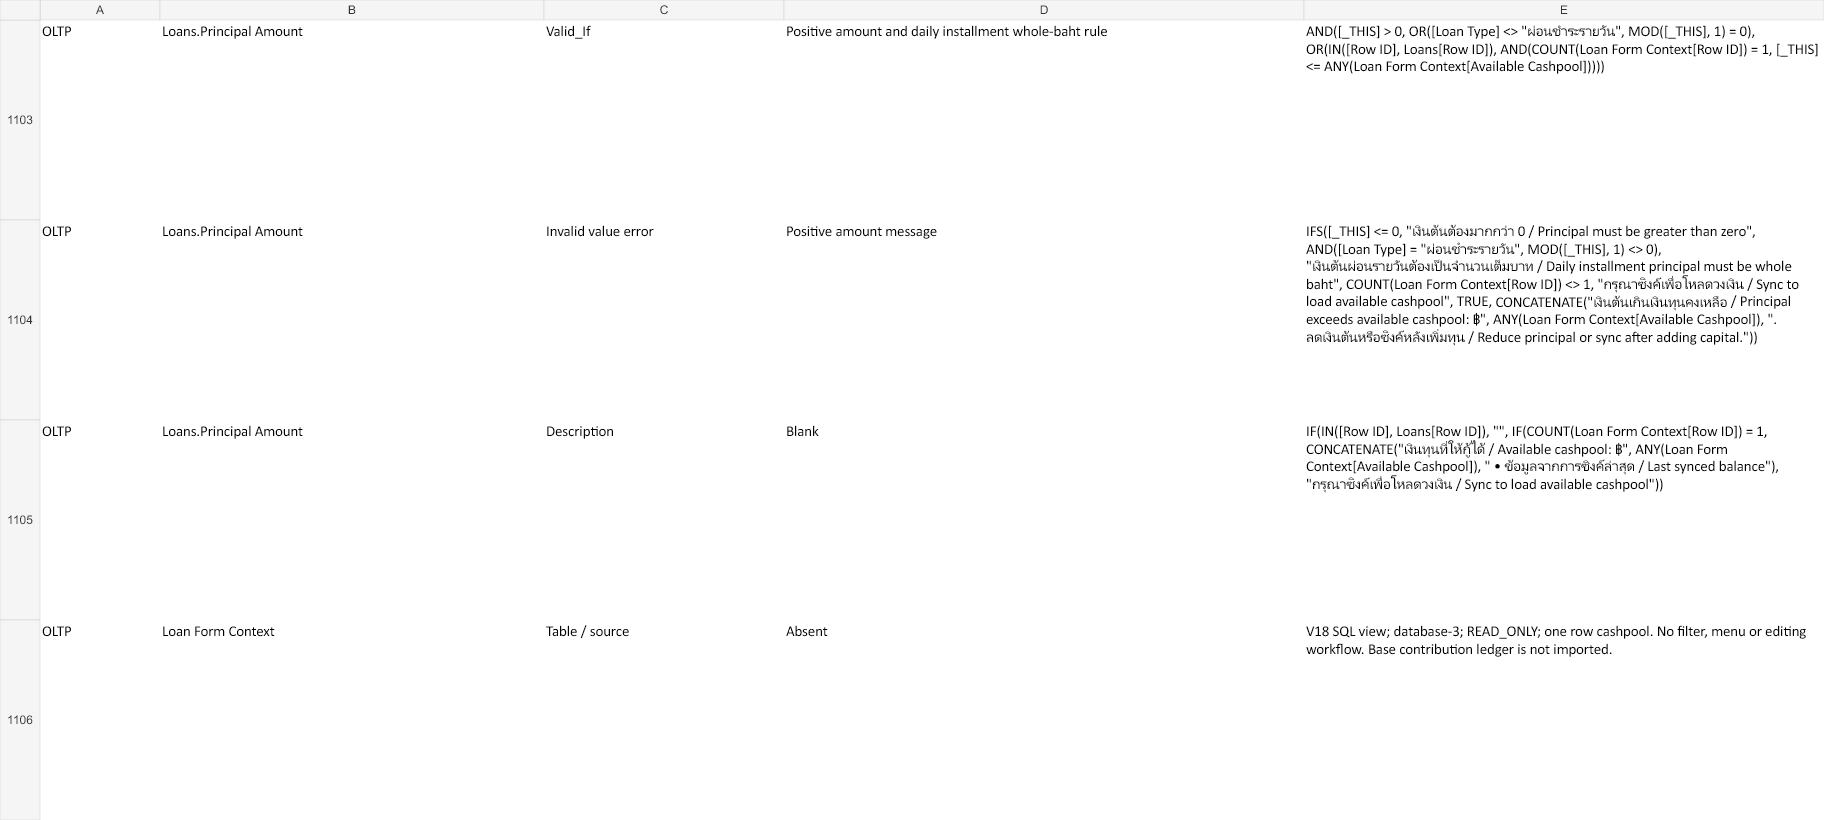
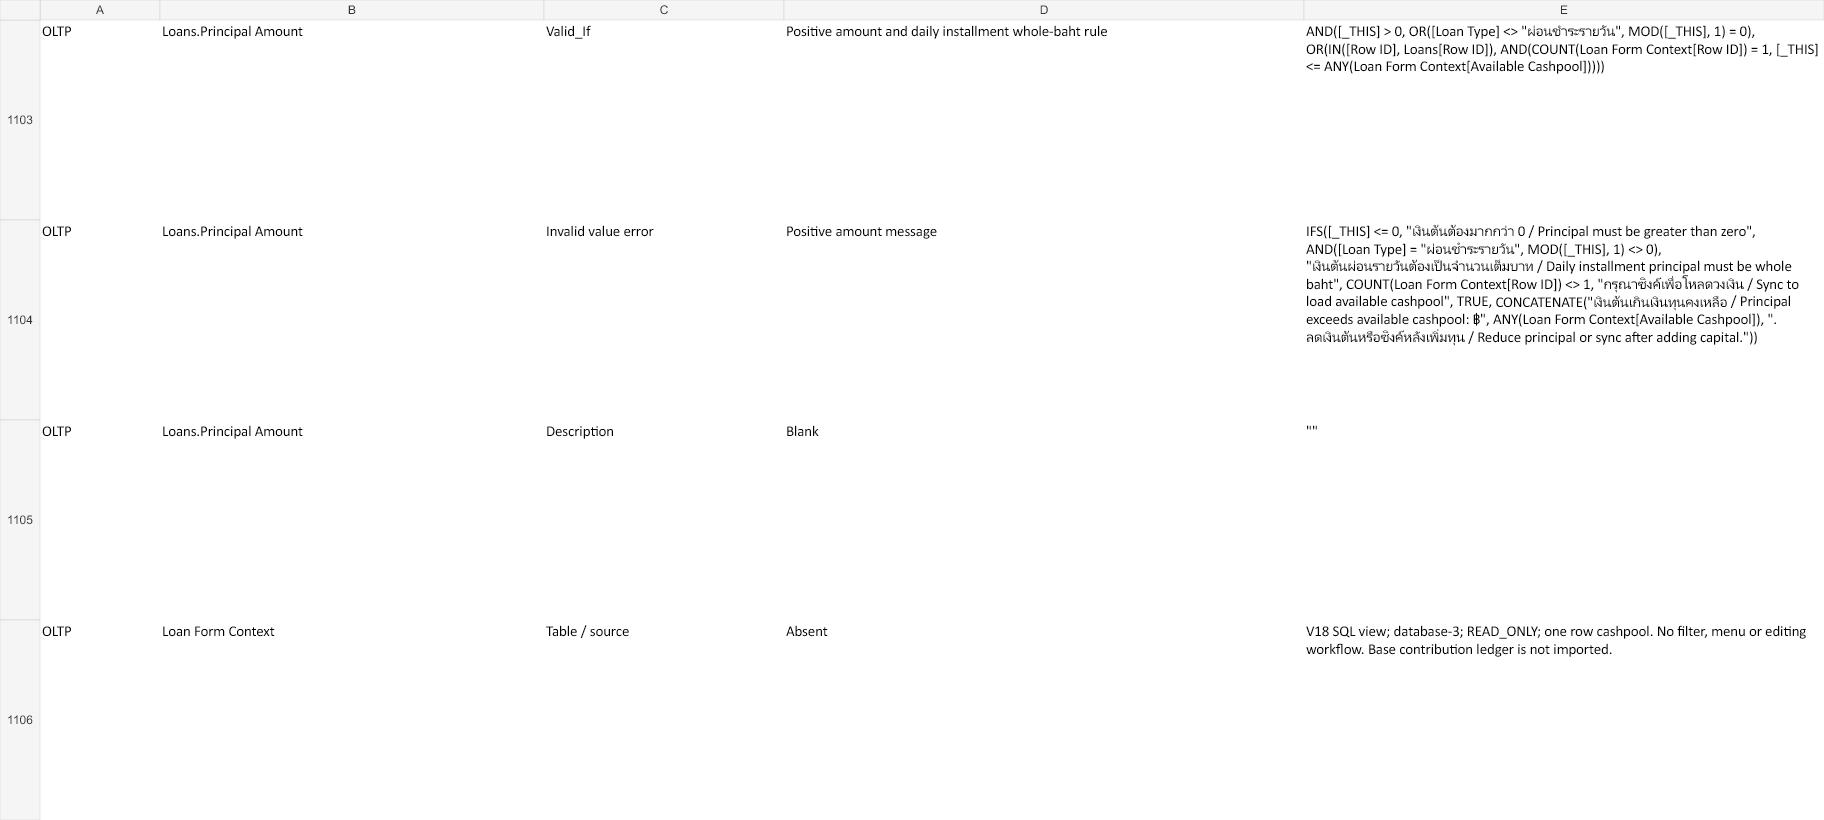
R002: shorten principal title and reuse Collection borrower label

Changed region(s): [[0.7188, 0.5183, 0.9688, 0.6098]]

diff --git a/Documents/AppSheet_Data_Model_Overview.md b/Documents/AppSheet_Data_Model_Overview.md
@@ -2,13 +2,15 @@
 
 ## R002 development checkpoint — 16 September 2026
 
-Dev now uses Flyway **V18**, OLTP **1.000098**, OLAP **1.000096**. R001 production remains unchanged. Owner chose signed contributed capital minus outstanding principal as new-loan capacity, excluding retained profit. V17 checks positive gross principal on every Loans insert at sync and serializes Loans, Repayments and Cash Pool Contributions writes with an advisory try-lock; busy writes fail for retry. It reads canonical loan/repayment rows rather than deferred balance caches. Existing loan edits and capital withdrawals are outside the new-loan limit; a resulting deficit blocks subsequent loans. No new base tables/columns or historical backfill.
+Dev now uses Flyway **V18**, OLTP **1.000103**, OLAP **1.000096**. R001 production remains unchanged. Owner chose signed contributed capital minus outstanding principal as new-loan capacity, excluding retained profit. V17 checks positive gross principal on every Loans insert at sync and serializes Loans, Repayments and Cash Pool Contributions writes with an advisory try-lock; busy writes fail for retry. It reads canonical loan/repayment rows rather than deferred balance caches. Existing loan edits and capital withdrawals are outside the new-loan limit; a resulting deficit blocks subsequent loans. No new base tables/columns or historical backfill.
 
 V18 exposes the owner-requested **Loan Form Context** SQL view, exactly one row with Text key `cashpool`: Contributed Capital, Outstanding Principal, Available Cashpool (Price/THB, two decimals), Partner A Profit Share and Partner B Profit Share (Percent, two decimals). Its capital population includes all dates; role A/B ratios divide current signed capital by total, or zero for a nonpositive pool. These current ratios do not change date-based historical allocations. OLTP imports only the READ_ONLY summary on database-3; OLAP retains the contribution ledger. No menu/edit workflow or extra aggregation VCs. The view is refreshed through normal sync, not an AppSheet bot.
 
-OLTP Loans.Principal Amount uses the one-row limit in Valid_If and displays a bilingual error plus last-synced capacity hint. Existing positive/whole-baht rules remain; existing Row IDs bypass only the new cap. Missing summary blocks new entry. Current-GUI checks: limit ฿3,606 displayed; exact amount has no capacity error; ฿3,606.01 and ฿3,607 warn before Save. Test form discarded unsaved. Stale/offline/concurrent writes remain protected by V17 at sync.
+OLTP Loans.Principal Amount uses the one-row limit in Valid_If and displays a bilingual error. After owner refinement, its original title has the available amount in brackets for new forms, for example `เงินต้น / Principal Amount (฿3606)`; the long Description is removed. Existing positive/whole-baht rules remain; existing Row IDs bypass only the new cap. Missing summary blocks new entry. Current-GUI checks: limit ฿3,606 displayed; exact amount has no capacity error; ฿3,606.01 and ฿3,607 warn before Save. The short title and ฿3,607 warning were rechecked after refinement; test form discarded unsaved. Stale/offline/concurrent writes remain protected by V17 at sync.
 
-Borrowers retains immutable Row ID keys and the existing Borrower Name TE label. Both Dev apps attach inline borrower navigation to Loans/Charges/Repayments Borrower Name TE; Loans uses its existing Ref action and the other tables use `LINKTOROW([Ref Loans].[Ref Borrowers], "Borrowers_Detail")`. Repayments_Detail appends the TE field in both apps; OLAP Charges_Detail substitutes TE for plain Borrower Name. Existing text expressions, Ref relationships and slices are preserved. Saved appdoc comparisons are reconciled. Links from all three tables passed in both current app interfaces. The workbook's Dev Differences holds the exact form/action/view inventory. Remaining persisted-GUI/mobile/offline checks and owner acceptance are in the [R002 log](../Change%20Logs/CHANGE_NOTES_R002_2026-09-16.md). No Looker source fields or export grains changed; no report edited.
+Borrowers retains immutable Row ID keys and the existing Borrower Name TE label. Both Dev apps attach inline borrower navigation to Loans/Charges/Repayments Borrower Name TE; Loans uses its existing Ref action and the other tables use `LINKTOROW([Ref Loans].[Ref Borrowers], "Borrowers_Detail")`. Repayments_Detail appends the TE field in both apps; OLAP Charges_Detail substitutes TE for plain Borrower Name. Existing text expressions and Ref relationships are preserved. Links from all three tables passed in both current app interfaces. The workbook's Dev Differences holds the exact form/action/view inventory. Remaining persisted-GUI/mobile/offline checks and owner acceptance are in the [R002 log](../Change%20Logs/CHANGE_NOTES_R002_2026-09-16.md). No Looker source fields or export grains changed; no report edited.
+
+Owner refinement replaces Borrower Name - Collection with Borrower Name TE in the OLTP Collection deck header and second field of Todays Collection Board_Detail. Todays Collection Board includes TE; the duplicate VC is removed from Borrowers and both borrower slices. Slice filters, permissions, actions and row navigation are preserved. The four original status rules now color only Todays Amount Remaining. Four TE rules retain green/red/purple/orange for Fully Paid/Not Paid/Overdue/Partially Paid, scoped through CONTEXT("View") to Collection and Todays Collection Board_Detail. The pink outstanding-loan rule excludes those two views and remains unchanged elsewhere. Red/purple Collection rows, red detail, matching row navigation and pink borrower-list colors passed current-GUI checks; green/orange lacked visible fixtures and are verified in saved configuration only. Saved appdocs reconcile the intended changes, OLAP is unchanged, and OLTP has no editor issues. Refinement rollback is OLTP 1.000098; SQL V18 is unchanged.
 
 Reconciled 16 September 2026. This is the current production architecture reference. [Development differences](Development_Changes.md), [environment inventory](Environment_Inventory.md), and [documentation index](README.md) are maintained separately. The detailed inventory is in [AppSheet_Data_Dictionary.xlsx](AppSheet_Data_Dictionary.xlsx).
 

diff --git a/Change Logs/CHANGE_NOTES_R002_2026-09-16.md b/Change Logs/CHANGE_NOTES_R002_2026-09-16.md
@@ -39,3 +39,17 @@ Model overview and workbook Dev Differences document the Dev rules and navigatio
 3. If enabling owner notifications later, inspect every To/CC/BCC/called task/dynamic destination and verify only the owner receives the reviewed Dev test. No notification delivery claim is made here.
 
 Rollback: restore Dev OLTP 1.000088 / OLAP 1.000090 to remove R002 app changes, then rerun preparation before writes. After the app no longer references Loan Form Context, SQL recovery requires a reviewed higher Flyway migration dropping that view, `ab_new_loan_cashpool_guard` on Loans, the three `aa_cashpool_lock` triggers and their two functions; never edit V17/V18 or use repair/clean. Alternatively restore the verified private V16 backup to an isolated recovery database and reconcile later Dev writes before cutover. App restore alone does not remove the database safeguard. Preserve release numbering when reverting documentation. Implementation and tested source checkpoint: `b040cb8`; exact migration hashes are in `outputs/r002-20260916/migration-manifest.json`. This final tracking update changes documentation only. Production requires separate explicit approval.
+
+## Owner review refinement — 16 September 2026
+
+Implemented and ready for owner review: **Dev OLTP 1.000103**, companion **OLAP 1.000096 unchanged**, SQL **V18 unchanged**. Before editing, fresh saved appdocs recorded refinement rollback **OLTP 1.000098 / OLAP 1.000096** and Git `1c47f02`. OLAP has no duplicate-VC dependencies. This refinement affects only OLTP configuration; no SQL/base-table/report changes, financial writes or notifications.
+
+- Principal title retains `เงินต้น / Principal Amount` and adds the latest synced capacity in brackets on new forms, verified as `เงินต้น / Principal Amount (฿3606)`. Description is `""`. Existing validation and error expression are byte-for-byte unchanged in the saved Type Qualifier. Entering 3607 still warns after blur, before Save; the form was cancelled and discarded.
+- Collection deck primary header and the second field in Todays Collection Board_Detail now use Borrower Name TE. Todays Collection Board adds TE; both that slice and Visible Borrowers remove the duplicate. Borrowers.Borrower Name - Collection was deleted only after the replacement passed GUI checks. Stable Row ID, TE label/formula, filters, permissions, action bar, groups and Row Selected auto navigation are preserved.
+- Four original Borrower Name Collection status rules retain their conditions and colors on Todays Amount Remaining only. Four new Collection Borrower TE status rules target TE only, scoped to `Collection` and `Todays Collection Board_Detail` with `IN(CONTEXT("View"), LIST(...))`. Colors remain green Fully Paid, red Not Paid, purple Overdue, orange Partially Paid; other style attributes are copied unchanged. The pink outstanding-loan rule excludes those views and remains active elsewhere.
+- New-GUI checks observed red and purple TE colors in the Collection list, red in Collection detail, matching borrower row navigation, and pink in the ordinary Borrowers list. No Fully Paid/Partially Paid rows were visible; green/orange targets, expressions and original styles are reconciled from saved configuration, not claimed GUI-tested. No payment action was run.
+- Saved appdoc comparison is limited to the intended principal display/description, deleted VC, two slices, two views, nine format rules and version/count metadata. No OLAP delta. AppSheet initially reported automatic removal of the missing VC from slices; an explicit cleanup save persisted those removals. Final editor: **No issues found**, Save disabled. No active duplicate dependency remains; its historical name appears only in a descriptive cleanup comment.
+
+Evidence: `outputs/r002-20260916/refinement-verification.json` and updated `app-configuration.json`. Model overview, workbook Dev Differences, environment inventory, development notes and release tracker updated together. Dictionary export/reimport verifies all worksheet values; production inventory preserved. Maintained builder: `scripts/r002-dictionary.mjs`.
+
+Owner checks: sync Dev, confirm the short principal title and over-limit warning, open Collection borrowers and verify all four status colors when matching rows exist, then confirm ordinary borrower colors remain as expected. Owner acceptance remains pending. Refinement-only rollback: restore **Dev OLTP 1.000098**, rerun development preparation before writes, and revert the corresponding documentation checkpoint. Do not restore OLAP or SQL for this UI-only refinement. Original R002 rollback above remains separate. Production and Looker are unchanged; no direct downstream source/grain impact.

diff --git a/Documents/Release_Tracker.md b/Documents/Release_Tracker.md
@@ -18,7 +18,7 @@ Established 16 September 2026. **Current recorded production baseline: R001. Nex
 | Release | Title and content summary | Status | Date | Technical versions / evidence |
 | --- | --- | --- | --- | --- |
 | **R001** | **Existing production baseline.** PostgreSQL-backed OLTP/OLAP; SQL loan assessment; atomic payment, loan-close/default and charge processing; monitored schedules and SQL Daily Analytics without AppSheet Calendar; materialized operational balances; business expenses, referral rebates, net partner reporting and income-statement dashboards. | **Released — retrospective baseline** | Recorded 2026-09-16; components deployed over earlier tasks | Latest recorded production: OLTP **3.000118**, OLAP **1.100098**, Flyway **V16**. Repository checkpoint **4dec281**. Evidence below. |
-| **R002** | **Development loan cashpool safeguard, owner-only Dev notification policy, and borrower-name navigation.** Row ID keys preserved. | **Ready for review** | Reserved 2026-09-16 by owner request | Dev OLTP **1.000098**, OLAP **1.000096**, Flyway **V18**, implementation commit **b040cb8**; one-row form context and immediate warning implemented; SQL and current-GUI checks passed; owner acceptance pending. [Change log](../Change%20Logs/CHANGE_NOTES_R002_2026-09-16.md). Owner acceptance and production approval pending. |
+| **R002** | **Development loan cashpool safeguard, owner-only Dev notification policy, and borrower-name navigation.** Row ID keys preserved; short bracketed principal limit and Collection label/color cleanup included. | **Ready for review** | Reserved 2026-09-16 by owner request | Dev OLTP **1.000103**, OLAP **1.000096**, Flyway **V18**, implementation commit **b040cb8**; one-row form context and immediate warning implemented; SQL and current-GUI checks passed; owner acceptance pending. [Change log](../Change%20Logs/CHANGE_NOTES_R002_2026-09-16.md). Owner acceptance and production approval pending. |
 
 R002 is reserved for the owner's requested development scope. Earlier work did not carry these release numbers; R001 groups the existing state rather than inventing historical release IDs. The baseline inventory is based on checked-in deployment records, not a fresh live audit.
 

diff --git a/Documents/Development_Changes.md b/Documents/Development_Changes.md
@@ -98,4 +98,4 @@ Owner accepted development V11 / OLTP 1.000048 / OLAP 1.000050 after syncing and
 Production caught up on 16 September at V11 / OLTP 3.000098 / OLAP 1.100081. Its Calendar dependency and duplicate bot are removed, Daily Analytics is read only, and AppSheet owns both monitored schedules while production pg_cron remains paused. Manual Recent/Full requests and the first natural 01:00 analytics run completed; 43/43 dates reconcile. The first natural production 00:05 charge run remains pending. [Production evidence and rollback](../outputs/monitored-jobs-production-20260916/REPORT.md).
 ## R002 — 16 September 2026
 
-Dev V18 / OLTP 1.000098 / OLAP 1.000096 adds a database new-loan cashpool guard (contributed capital minus outstanding principal), inline borrower navigation while preserving Row ID keys, and owner-only Dev notification policy. SQL regression/boundary/concurrency and saved app configuration comparisons passed. One-row Loan Form Context powers the OLTP pre-save warning/hint. Both-app borrower links and form boundaries verified in the current GUI; owner acceptance remains pending. No production changes. [Scope, evidence, limitations and recovery](../Change%20Logs/CHANGE_NOTES_R002_2026-09-16.md).
+Dev V18 / OLTP 1.000103 / OLAP 1.000096 adds a database new-loan cashpool guard (contributed capital minus outstanding principal), inline borrower navigation while preserving Row ID keys, and owner-only Dev notification policy. SQL regression/boundary/concurrency and saved app configuration comparisons passed. One-row Loan Form Context powers the OLTP pre-save warning and bracketed amount in the original principal title. Owner refinement replaces the Collection duplicate VC with Borrower Name TE while preserving Collection status colors and pink formatting elsewhere; the unused VC is removed. Refinement rollback OLTP 1.000098; OLAP/SQL unchanged. Both-app borrower links and form boundaries verified in the current GUI; red/purple Collection colors and pink outside checked, green/orange saved rules verified without visible fixtures. Owner acceptance remains pending. No production changes. [Scope, evidence, limitations and recovery](../Change%20Logs/CHANGE_NOTES_R002_2026-09-16.md).

diff --git a/Documents/Environment_Inventory.md b/Documents/Environment_Inventory.md
@@ -138,4 +138,4 @@ Owner accepted development V11 / OLTP 1.000048 / OLAP 1.000050 after syncing and
 Production V11 / OLTP 3.000098 / OLAP 1.100081 was promoted on 16 September. Manual Recent/Full refreshes and the first natural hourly run completed; all 43 dates reconcile and IDs remain stable. The first natural 00:05 charge run through AppSheet remains pending. [Production evidence and rollback](../outputs/monitored-jobs-production-20260916/REPORT.md).
 ## R002 development checkpoint — 16 September 2026
 
-Latest R002 Dev versions: OLTP **1.000098**, OLAP **1.000096**, SQL **V18**, database-3 on development host 34.158.38.171. Rollback app versions: 1.000088 / 1.000090. Production is unchanged by R002. Four Dev notification bots remain disabled; owner-only notification policy is now permitted after route review, not an enablement claim. Existing essential SQL schedules remain enabled, superseded financial processing and export disabled. See [R002 change log](../Change%20Logs/CHANGE_NOTES_R002_2026-09-16.md) for backup, checks and acceptance limits. This checkpoint supersedes older Dev version and notification-state entries below.
+Latest R002 Dev versions: OLTP **1.000103**, OLAP **1.000096**, SQL **V18**, database-3 on development host 34.158.38.171. Full R002 rollback app versions: 1.000088 / 1.000090. UI refinement-only rollback: OLTP 1.000098; OLAP and V18 unchanged. Production is unchanged by R002. Four Dev notification bots remain disabled; owner-only notification policy is now permitted after route review, not an enablement claim. Existing essential SQL schedules remain enabled, superseded financial processing and export disabled. See [R002 change log](../Change%20Logs/CHANGE_NOTES_R002_2026-09-16.md) for backup, checks and acceptance limits. This checkpoint supersedes older Dev version and notification-state entries below.
